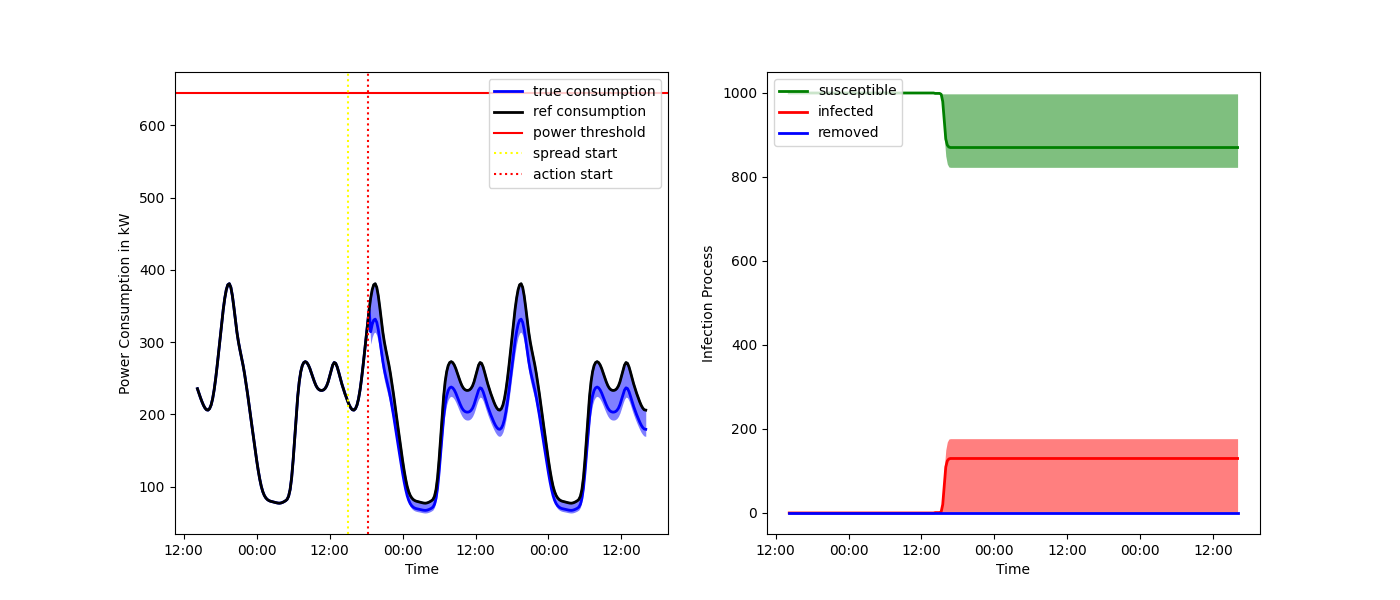
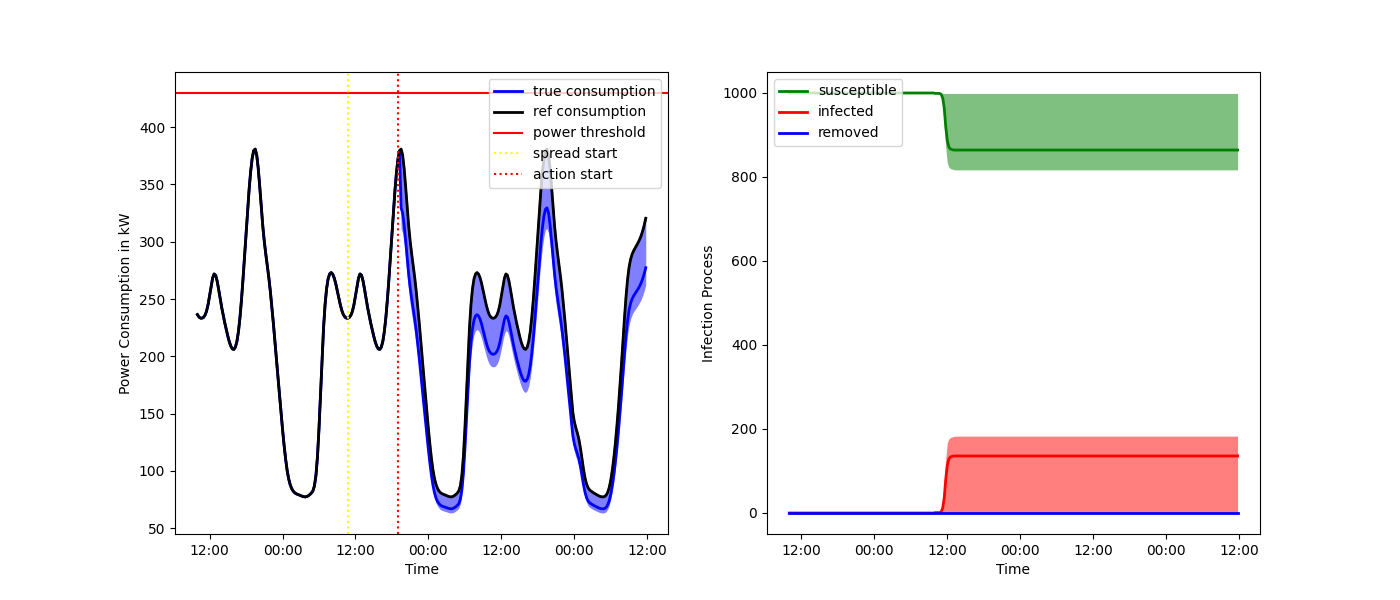
scenario 2 done

diff --git a/latex/inc/results.tex b/latex/inc/results.tex
@@ -422,11 +422,14 @@ $p_{\mathrm{available}}=0.2,
 p_{\mathrm{power\_usage}}=1, p_{\mathrm{will\_act}}=1$
 were chosen.
 Moreover, it is expected that infected individuals will not 
-believe in any information that goes agains the original message.
+believe in any information that goes against the original message.
 Therefore, it is assumed that $p_{\mathrm{verify}}=0$. Next, it
 can be considered that the information is believable to 
 the affected population and that it is quickly spread by 
 the infected entities. Thus, it is assumed that $\alpha=1, \beta=1$.
+However, the information is not believeable to the people 
+who are not open to extremist messages. Thus, the 
+parameter \code{fringe} is set to \code{true}.
 Next, it is assumed that all infected entities 
 stop consuming power and their demand decreases to zero. Thus,
 the power usage factor \code{factor} is set to zero.
@@ -440,7 +443,14 @@ From $1000$ nodes, only $200$ get infected. The reason is
 that $p_{\mathrm{available}}=0.2$, thus only $20\%$ of the nodes
 can get infected. In addition, it is visible that the results 
 are not very robust. The results change heavily in different 
-simulations.
+simulations. The reason is that depending on the network structure
+and which nodes can get infected and will act on the information, 
+the infected nodes may not be able to infect all other nodes
+that could get infected. Nodes that can get infected may be 
+connected by nodes that are not susceptible to the conspiracy 
+theory, which does also not forward the message to other nodes
+open to the conspiracy theory, thus limiting the 
+spread of misinformation.
 Moreover, it can be seen that the amount of underconsumption
 is higher in peak load periods compared to periods with 
 lower load. This makes sense since infected households would 
@@ -458,6 +468,38 @@ power suppliers.
     \caption{Simulation results for the second scenario}
     \label{schwurblerresults}
 \end{figure}
+
+In Figure \ref{schwurblerresults}, it could be seen that 
+the results of the simulation are not robust. To analyze the 
+robustness of the simulation in regards to the parameter
+\code{fringe}, a second simulation was run where the 
+\code{fringe} parameter was set to \code{false}. 
+The simulation was run five times with five different seeds
+to ensure different results. The simulation results can be
+seen in Figure \ref{schwurblerresults2}. It
+can be observed that if \code{fringe} is \code{true}, then 
+the simulation results get less robust. The reason is 
+that the infection process may be hindered and thus not
+all nodes can get infected. The \code{fringe} parameter was 
+implemented by making nodes which are not available and thus
+do not use additional power consumption
+also not able to forward the information to other nodes.
+Thus, these nodes can hinder the information propagation process.
+However, this idea may not be realistic. Smaller communities,
+such as extremist communities, may 
+be tightly connected. Therefore, there may be no information 
+barriers that could hinder the flow of information between 
+entities that are open for this kind of information.
+
+
+
+\begin{figure}[!ht]
+    \center
+    \includegraphics[scale=.55]{figs/eval/scenario2/fringeoff.png}
+    \caption{Simulation results when all nodes forward the information}
+    \label{schwurblerresults2}
+\end{figure}
+
 
 \section{Scenario 3: Mass Evacuation of a City due to a Disaster}
 
@@ -577,5 +619,8 @@ If we assume that all households in Darmstadt receive
 a message at the same time via Cell Broadcast and that
 every household takes a hot shower for 15 minutes,
 we can calculate that there will be an additional 
-demand of $2kWh \cdot 2675 = 5350 kWh $ for these 
-15 minutes.
+demand of $0.5kWh \cdot 2675 = 1337.5 kWh $ for these 
+15 minutes. If an average household uses $3900 kWh$ 
+per year and $0.44kWh$ per hour, then using the heat pump 
+would double their power consumption for a short time.
+

diff --git a/code/estimatorrun.py b/code/estimatorrun.py
@@ -3,9 +3,10 @@ from data.social_media.process_sqlite import *
 from scipy import signal
 from sim.parameterEstimator import *
 import matplotlib.pyplot as plt
+import matplotlib.dates as md
 
 if __name__ == "__main__":
-    data = get_geoloc()
+    data = get_typhoon_data()
 
     values = data.groupby(pd.Grouper(key="date", freq="15min"))["tweet"].count()
 
@@ -27,14 +28,19 @@ if __name__ == "__main__":
     print(f"estimated params: p_verify: {return_dict['p_verify']}, "
           f"alpha: {return_dict['alpha']}, beta: {return_dict['beta']}, degree ratio: {ratio}")
 
-    plt.plot(values.index, values, label='dataset')
-    plt.plot(values.index, return_dict["s"], label='susceptible')
-    plt.plot(values.index, return_dict["i"], label='infected')
-    plt.plot(values.index, return_dict["r"], label='removed')
+    fig = plt.figure()
+    ax = fig.add_subplot(111)
 
-    plt.xticks(rotation='vertical')
-    plt.legend(loc="upper right")
-    plt.xlabel("Time of post")
-    plt.ylabel("Number of posts")
+    ax.plot(values.index, values, label='dataset')
+    ax.plot(values.index, return_dict["s"], label='susceptible')
+    ax.plot(values.index, return_dict["i"], label='infected')
+    ax.plot(values.index, return_dict["r"], label='removed')
 
+    xfmt = md.DateFormatter('%d.%m.')
+    ax.xaxis.set_major_formatter(xfmt)
+    ax.set_ylabel("Number of posts")
+    ax.set_xlabel("Time of post")
+    ax.legend(loc="upper right")
+    plt.xticks(rotation=45)
     plt.show()
+

diff --git a/code/frameworkrun.py b/code/frameworkrun.py
@@ -383,6 +383,10 @@ def scenario2():
 
     basic_plot(config, start, action_start, iterations=200)
 
+    config["fringe"] = False
+    basic_plot(config, start, action_start, iterations=200)
+
+
 
 def scenario3():
     with open("./config/wildfire.json", "r") as f:
@@ -405,6 +409,32 @@ def scenario4():
         .replace(tzinfo=pytz.UTC)
 
     basic_plot(config, action_start, action_start=None, iterations=100)
+
+    probs_p = [0, 0.03, 0.05, 0.1, 0.2, 0.3, 0.5]
+    probs_v = []
+    for p in probs_p:
+        y_trues = []
+        config["model_args"]["heat_pump"]["p"] = p
+        for s in config["seeds"]:
+            config["seed"] = s
+            framework = EstimationFramework(config, plot=False)
+            x_start, x_all, y_true, y_ref, s_true, i_true, r_true = \
+                framework.estimate_power_outage(action_start, y_max=1000)
+            max_val = max(y_true)
+            print(f"max y value: {max_val}")
+            y_trues.append(max_val)
+        probs_v.append(mean(y_trues))
+
+    fig = plt.figure()
+    ax = fig.add_subplot(111)
+    ax.plot(probs_p, probs_v)
+    xfmt = md.DateFormatter('%H:%M')
+    ax.xaxis.set_major_formatter(xfmt)
+    ax.set_ylabel("Additional power consumption in kW")
+    ax.set_xlabel("Percentage of households with heat pumps")
+    ax.legend(loc="upper left")
+    plt.xticks(rotation=45)
+    plt.show()
 
 
 if __name__ == "__main__":
